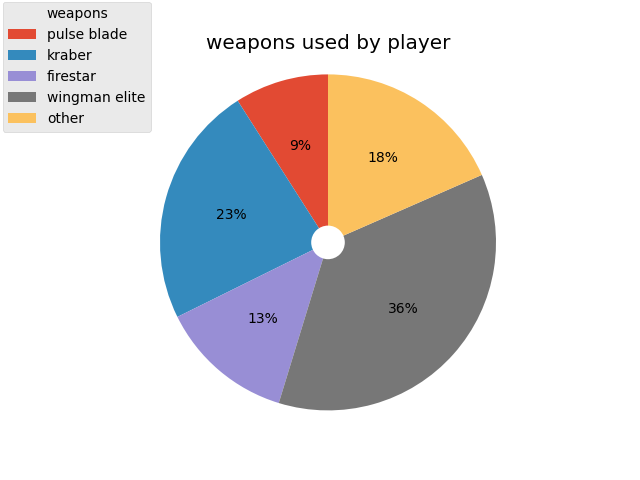
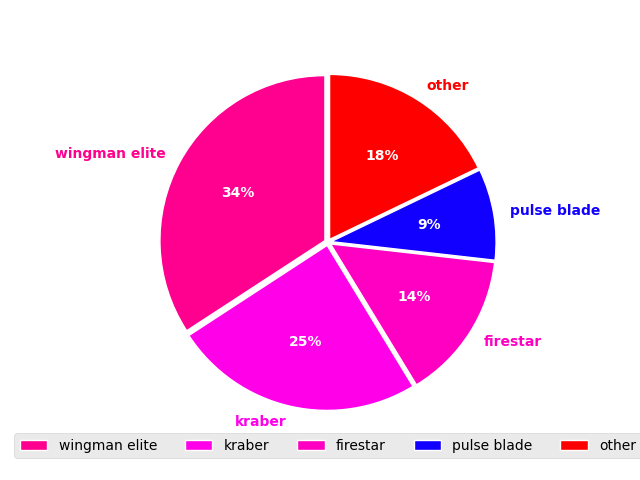
some piechart stuff

diff --git a/Reuse/makePiechart.py b/Reuse/makePiechart.py
@@ -1,10 +1,13 @@
 import discord
+from matplotlib import patheffects
 import matplotlib.pyplot as plt
 import numpy as np
 import requests
 
 def make_donut_chart(botmessage, playerid, server=""):
     plt.figure().clear()
+    weapon_color = {'auto_titan_melee': (1, 0.05084745762711862, 0.0), 'bubble_shield': (1, 0.10169491525423724, 0.0), 'burn': (1, 0.15254237288135597, 0.0), 'crushed': (1, 0.2033898305084746, 0.0), 'damagedef_crush': (1, 0.2542372881355932, 0.0), 'damagedef_fd_explosive_barrel': (1, 0.30508474576271194, 0.0), 'damagedef_fd_tether_trap': (1, 0.35593220338983045, 0.0), 'damagedef_frag_drone_throwable_PLAYER': (1, 0.4067796610169492, 0.0), 'damagedef_nuclear_core': (1, 0.4576271186440678, 0.0), 'damagedef_suicide': (1, 0.5084745762711864, 0.0), 'damagedef_titan_fall': (1, 0.5593220338983051, 0.0), 'damagedef_titan_hotdrop': (1, 0.6101694915254238, 0.0), 'damagedef_titan_step': (1, 0.6610169491525424, 0.0), 'damagedef_unknown': (1, 0.711864406779661, 0.0), 'fall': (1, 0.7627118644067796, 0.0), 'human_execution': (1, 0.8135593220338984, 0.0), 'invalid': (1, 0.864406779661017, 0.0), 'melee_pilot_arena': (1, 0.9152542372881356, 0.0), 'melee_pilot_emptyhanded': (1, 0.9661016949152541, 0.0), 'melee_pilot_kunai': (0.9830508474576272, 1, 0.0), 'melee_pilot_sword': (0.9322033898305084, 1, 0.0), 'melee_titan_punch_ion': (0.8813559322033897, 1, 0.0), 'melee_titan_punch_legion': (0.8305084745762712, 1, 0.0), 'melee_titan_punch_northstar': (0.7796610169491525, 1, 0.0), 'melee_titan_punch_scorch': (0.728813559322034, 1, 0.0), 'melee_titan_punch_tone': (0.6779661016949152, 1, 0.0), 'melee_titan_punch_vanguard': (0.6271186440677967, 1, 0.0), 'melee_titan_sword': (0.576271186440678, 1, 0.0), 'mind_crime': (0.5254237288135593, 1, 0.0), 'mp_titanability_laser_trip': (0.47457627118644075, 1, 0.0), 'mp_titanability_slow_trap': (0.4237288135593218, 1, 0.0), 'mp_titanability_smoke': (0.3728813559322033, 1, 0.0), 'mp_titancore_amp_core': (0.3220338983050848, 1, 0.0), 'mp_titancore_flame_wave': (0.27118644067796605, 1, 0.0), 'mp_titancore_flame_wave_secondary': (0.22033898305084754, 1, 0.0), 'mp_titancore_laser_cannon': (0.1694915254237288, 1, 0.0), 'mp_titancore_nuke_missile': (0.1186440677966103, 1, 0.0), 'mp_titancore_salvo_core': (0.06779661016949179, 1, 0.0), 'mp_titancore_shift_core': (0.016949152542372836, 1, 0.0), 'mp_titanweapon_arc_cannon': (0.0, 1, 0.03389830508474567), 'mp_titanweapon_arc_wave': (0.0, 1, 0.08474576271186463), 'mp_titanweapon_barrage_core_launcher': (0.0, 1, 0.13559322033898313), 'mp_titanweapon_brute4_quad_rocket': (0.0, 1, 0.18644067796610164), 'mp_titanweapon_dumbfire_rockets': (0.0, 1, 0.2372881355932206), 'mp_titanweapon_flame_wall': (0.0, 1, 0.2881355932203391), 'mp_titanweapon_flightcore_rockets': (0.0, 1, 0.3389830508474576), 'mp_titanweapon_heat_shield': (0.0, 1, 0.3898305084745761), 'mp_titanweapon_laser_lite': (0.0, 1, 0.4406779661016951), 'mp_titanweapon_leadwall': (0.0, 1, 0.4915254237288136), 'mp_titanweapon_meteor': (0.0, 1, 0.5423728813559321), 'mp_titanweapon_meteor_thermite': (0.0, 1, 0.593220338983051), 'mp_titanweapon_particle_accelerator': (0.0, 1, 0.6440677966101696), 'mp_titanweapon_predator_cannon': (0.0, 1, 0.6949152542372881), 'mp_titanweapon_rocketeer_rocketstream': (0.0, 1, 0.7457627118644066), 'mp_titanweapon_salvo_rockets': (0.0, 1, 0.7966101694915251), 'mp_titanweapon_shoulder_rockets': (0.0, 1, 0.847457627118644), 'mp_titanweapon_sniper': (0.0, 1, 0.8983050847457625), 'mp_titanweapon_sticky_40mm': (0.0, 1, 0.9491525423728815), 'mp_titanweapon_stun_laser': (0.0, 1.0, 1), 'mp_titanweapon_tracker_rockets': (0.0, 0.9491525423728815, 1), 'mp_titanweapon_vortex_shield': (0.0, 0.898305084745763, 1), 'mp_titanweapon_vortex_shield_ion': (0.0, 0.8474576271186436, 1), 'mp_titanweapon_xo16_shorty': (0.0, 0.7966101694915251, 1), 'mp_titanweapon_xo16_vanguard': (0.0, 0.7457627118644066, 1), 'mp_weapon_alternator_smg': (0.0, 0.6949152542372881, 1), 'mp_weapon_arc_launcher': (0.0, 0.6440677966101696, 1), 'mp_weapon_arena3': (0.0, 0.5932203389830506, 1), 'mp_weapon_autopistol': (0.0, 0.5423728813559321, 1), 'mp_weapon_car': (0.0, 0.4915254237288136, 1), 'mp_weapon_defender': (0.0, 0.4406779661016951, 1), 'mp_weapon_dmr': (0.0, 0.38983050847457656, 1), 'mp_weapon_doubletake': (0.0, 0.3389830508474576, 1), 'mp_weapon_epg': (0.0, 0.2881355932203391, 1), 'mp_weapon_esaw': (0.0, 0.2372881355932206, 1), 'mp_weapon_frag_grenade': (0.0, 0.1864406779661021, 1), 'mp_weapon_g2': (0.0, 0.13559322033898358, 1), 'mp_weapon_grenade_electric_smoke': (0.0, 0.08474576271186418, 1), 'mp_weapon_grenade_emp': (0.0, 0.03389830508474567, 1), 'mp_weapon_grenade_gravity': (0.016949152542372836, 0.0, 1), 'mp_weapon_grenade_sonar': (0.06779661016949134, 0.0, 1), 'mp_weapon_gunship_turret': (0.11864406779660985, 0.0, 1), 'mp_weapon_hemlok': (0.16949152542372925, 0.0, 1), 'mp_weapon_hemlok_smg': (0.22033898305084776, 0.0, 1), 'mp_weapon_lmg': (0.27118644067796627, 0.0, 1), 'mp_weapon_lstar': (0.3220338983050848, 0.0, 1), 'mp_weapon_mastiff': (0.3728813559322033, 0.0, 1), 'mp_weapon_mgl': (0.4237288135593218, 0.0, 1), 'mp_weapon_peacekraber': (0.4745762711864412, 0.0, 1), 'mp_weapon_pulse_lmg': (0.5254237288135588, 0.0, 1), 'mp_weapon_r97': (0.5762711864406782, 0.0, 1), 'mp_weapon_rocket_launcher': (0.6271186440677958, 0.0, 1), 'mp_weapon_rspn101': (0.6779661016949152, 0.0, 1), 'mp_weapon_rspn101_og': (0.7288135593220337, 0.0, 1), 'mp_weapon_satchel': (0.7796610169491522, 0.0, 1), 'mp_weapon_semipistol': (0.8305084745762707, 0.0, 1), 'mp_weapon_shotgun': (0.8813559322033901, 0.0, 1), 'mp_weapon_shotgun_pistol': (0.9322033898305087, 0.0, 1), 'mp_weapon_smart_pistol': (0.9830508474576272, 0.0, 1), 'mp_weapon_smr': (1, 0.0, 0.9661016949152543), 'mp_weapon_sniper': (1, 0.0, 0.9152542372881358), 'mp_weapon_softball': (1, 0.0, 0.8644067796610164), 'mp_weapon_super_spectre': (1, 0.0, 0.8135593220338979), 'mp_weapon_thermite_grenade': (1, 0.0, 0.7627118644067794), 'mp_weapon_turretplasma': (1, 0.0, 0.7118644067796609), 'mp_weapon_vinson': (1, 0.0, 0.6610169491525424), 'mp_weapon_wingman': (1, 0.0, 0.6101694915254239), 'mp_weapon_wingman_n': (1, 0.0, 0.5593220338983045), 'mp_weapon_yh803_bullet': (1, 0.0, 0.5084745762711869), 'null': (1, 0.0, 0.45762711864406747), 'outOfBounds': (1, 0.0, 0.40677966101694985), 'phase_shift': (1, 0.0, 0.35593220338983045), 'pilot_emptyhanded': (1, 0.0, 0.30508474576271194), 'rodeo_battery_removal': (1, 0.0, 0.25423728813559343), 'spectre_melee': (1, 0.0, 0.20338983050847492), 'titan_execution': (1, 0.0, 0.15254237288135641), 'titan_explosion': (1, 0.0, 0.10169491525423702), 'titan_grapple': (1, 0.0, 0.05084745762711851), 'other': (1, 0.0, 0.0)}
+
     weapon = {
     "human_execution": "execution",
     "mp_weapon_car": "car",
@@ -62,6 +65,7 @@ def make_donut_chart(botmessage, playerid, server=""):
 
     labels = []
     values = []
+    colors = []
     total = 0
     dict_weapon_with_kills = {}
     for i in response.keys():
@@ -69,32 +73,57 @@ def make_donut_chart(botmessage, playerid, server=""):
         dict_weapon_with_kills[i] = weaponstats['kills']
         total += weaponstats['kills']
 
+    handler = lambda p : response[p]['kills']
+    result = sorted(dict_weapon_with_kills, key=handler, reverse=True)
+
     other = 0
-    for j in dict_weapon_with_kills:
+    for j in result:
         if(dict_weapon_with_kills[j] > total/20):
             try:
                 labels.append(weapon[j])
             except KeyError:
                 labels.append(j)
+
+            colors.append(weapon_color[j])
             values.append(dict_weapon_with_kills[j])
         else:
             other += dict_weapon_with_kills[j]
 
     labels.append("other")
     values.append(other)
+    colors.append(weapon_color['other'])
 
     plt.style.use('ggplot')
-    plt.title("weapons used by player")
-    plt.pie(x=values, autopct='%.0f%%', startangle=90)
+    explode = [0.02] * len(values)
+    patches, texts, pcts = plt.pie(x=values, autopct='%.0f%%', startangle=90, pctdistance=0.6, explode=explode, colors=colors, labels=labels,  wedgeprops={'linewidth': 1.0, 'edgecolor': 'white'},
+       textprops={'size': 'medium', })
+    
+    for i, patch in enumerate(patches):
+        texts[i].set_color(patch.get_facecolor())
+    plt.setp(pcts, color='white', fontweight='bold')
+    plt.setp(texts, fontweight=600)
+    
     plt.axis('equal')
-    plt.legend(title="weapons" ,labels=labels, loc='upper left', bbox_to_anchor=(-0.17, 0.67, 0.5, 0.5))
+    legend = plt.legend(labels=labels, loc='center', bbox_to_anchor=(0.5,-0.05,0,0), ncol=5, frameon=True)
+    export_legend(legend)
 
-    circle = plt.Circle(xy=(0,0), radius=.1, facecolor='white')
-    plt.gca().add_artist(circle)
-
-    plt.savefig("Reuse/images/player_weapons_used.png")
+    plt.savefig("Reuse/images/player_weapons_used.png", transparent=True)
     plt.close()
+
     img_file = discord.File("Reuse/images/player_weapons_used.png", filename="player_weapons_used.png")
     botmessage.set_image(url="attachment://player_weapons_used.png")
 
     return botmessage, img_file
+
+
+def export_legend(legend, filename="Reuse/images/legend.png", expand=[-5,-5,5,5]):
+    fig  = legend.figure
+    fig.canvas.draw()
+    bbox  = legend.get_window_extent()
+    bbox = bbox.from_extents(*(bbox.extents + np.array(expand)))
+    bbox = bbox.transformed(fig.dpi_scale_trans.inverted())
+    fig.savefig(filename, dpi="figure", bbox_inches=bbox, transparent=True)
+
+
+    # outer = plt.Circle(xy=(0,0), radius=1.02, facecolor='white')
+    # plt.gca().add_artist(outer)

diff --git a/slashcogs/slashleaderboard.py b/slashcogs/slashleaderboard.py
@@ -28,7 +28,7 @@ class SlashLeaderboard(commands.Cog):
             if(weapon != ""):
                 weaponid, weaponname = getweaponid(weapon)
             if(servername != ""):
-                server = getserver(session,servername)
+                server = await getserver(session,servername)
 
             if(board in boards):
                 botmessage = create_leaderboard_message(weaponid=weaponid, weaponname=weaponname, server=server, board=board)
